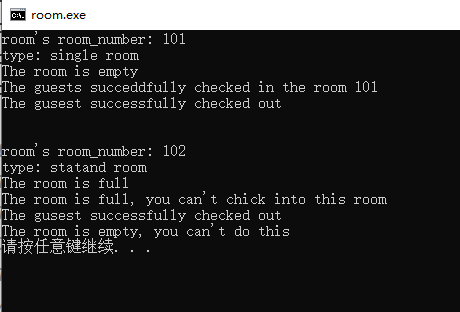
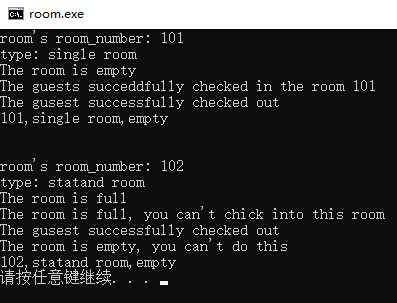
为了写入增加record()函数,方便写入csv

diff --git a/final_project/src/room.cpp b/final_project/src/room.cpp
@@ -9,12 +9,14 @@ int main(int argc, char const *argv[]) {
   room_1.show();
   room_1.check_in();
   room_1.check_out();
+  room_1.record();
   /* output
     room's room_number: 101
     type: single room
     The room is empty
     The guests succeddfully checked in the room101
     The gusest successfully checked out
+    101,single room,empty
    */
 
   cout << "\n" << endl;
@@ -24,12 +26,14 @@ int main(int argc, char const *argv[]) {
   room_2.check_in();
   room_2.check_out();
   room_2.check_out();
+  room_2.record();
   /* room's number: 102
     type: statand room
     The room is full
     The room is full, you can't chick into this room
     Done
     The room is empty, you can't do this
+    102,statand room,empty
    */
 
   return 0;
@@ -38,14 +42,16 @@ int main(int argc, char const *argv[]) {
 room's room_number: 101
 type: single room
 The room is empty
-The guests succeddfully checked in the room101
+The guests succeddfully checked in the room 101
 The gusest successfully checked out
+101,single room,empty
 
 
-room's number: 102
+room's room_number: 102
 type: statand room
 The room is full
 The room is full, you can't chick into this room
-Done
+The gusest successfully checked out
 The room is empty, you can't do this
+102,statand room,empty
  */

diff --git a/final_project/src/room.h b/final_project/src/room.h
@@ -53,7 +53,10 @@ class Room {
       return 1;
     }
   }
-
+  void record(){
+    cout << room_number << "," << room_type
+      << "," << (status ? "full" :"empty") << endl;
+  }
 
 
  private:
